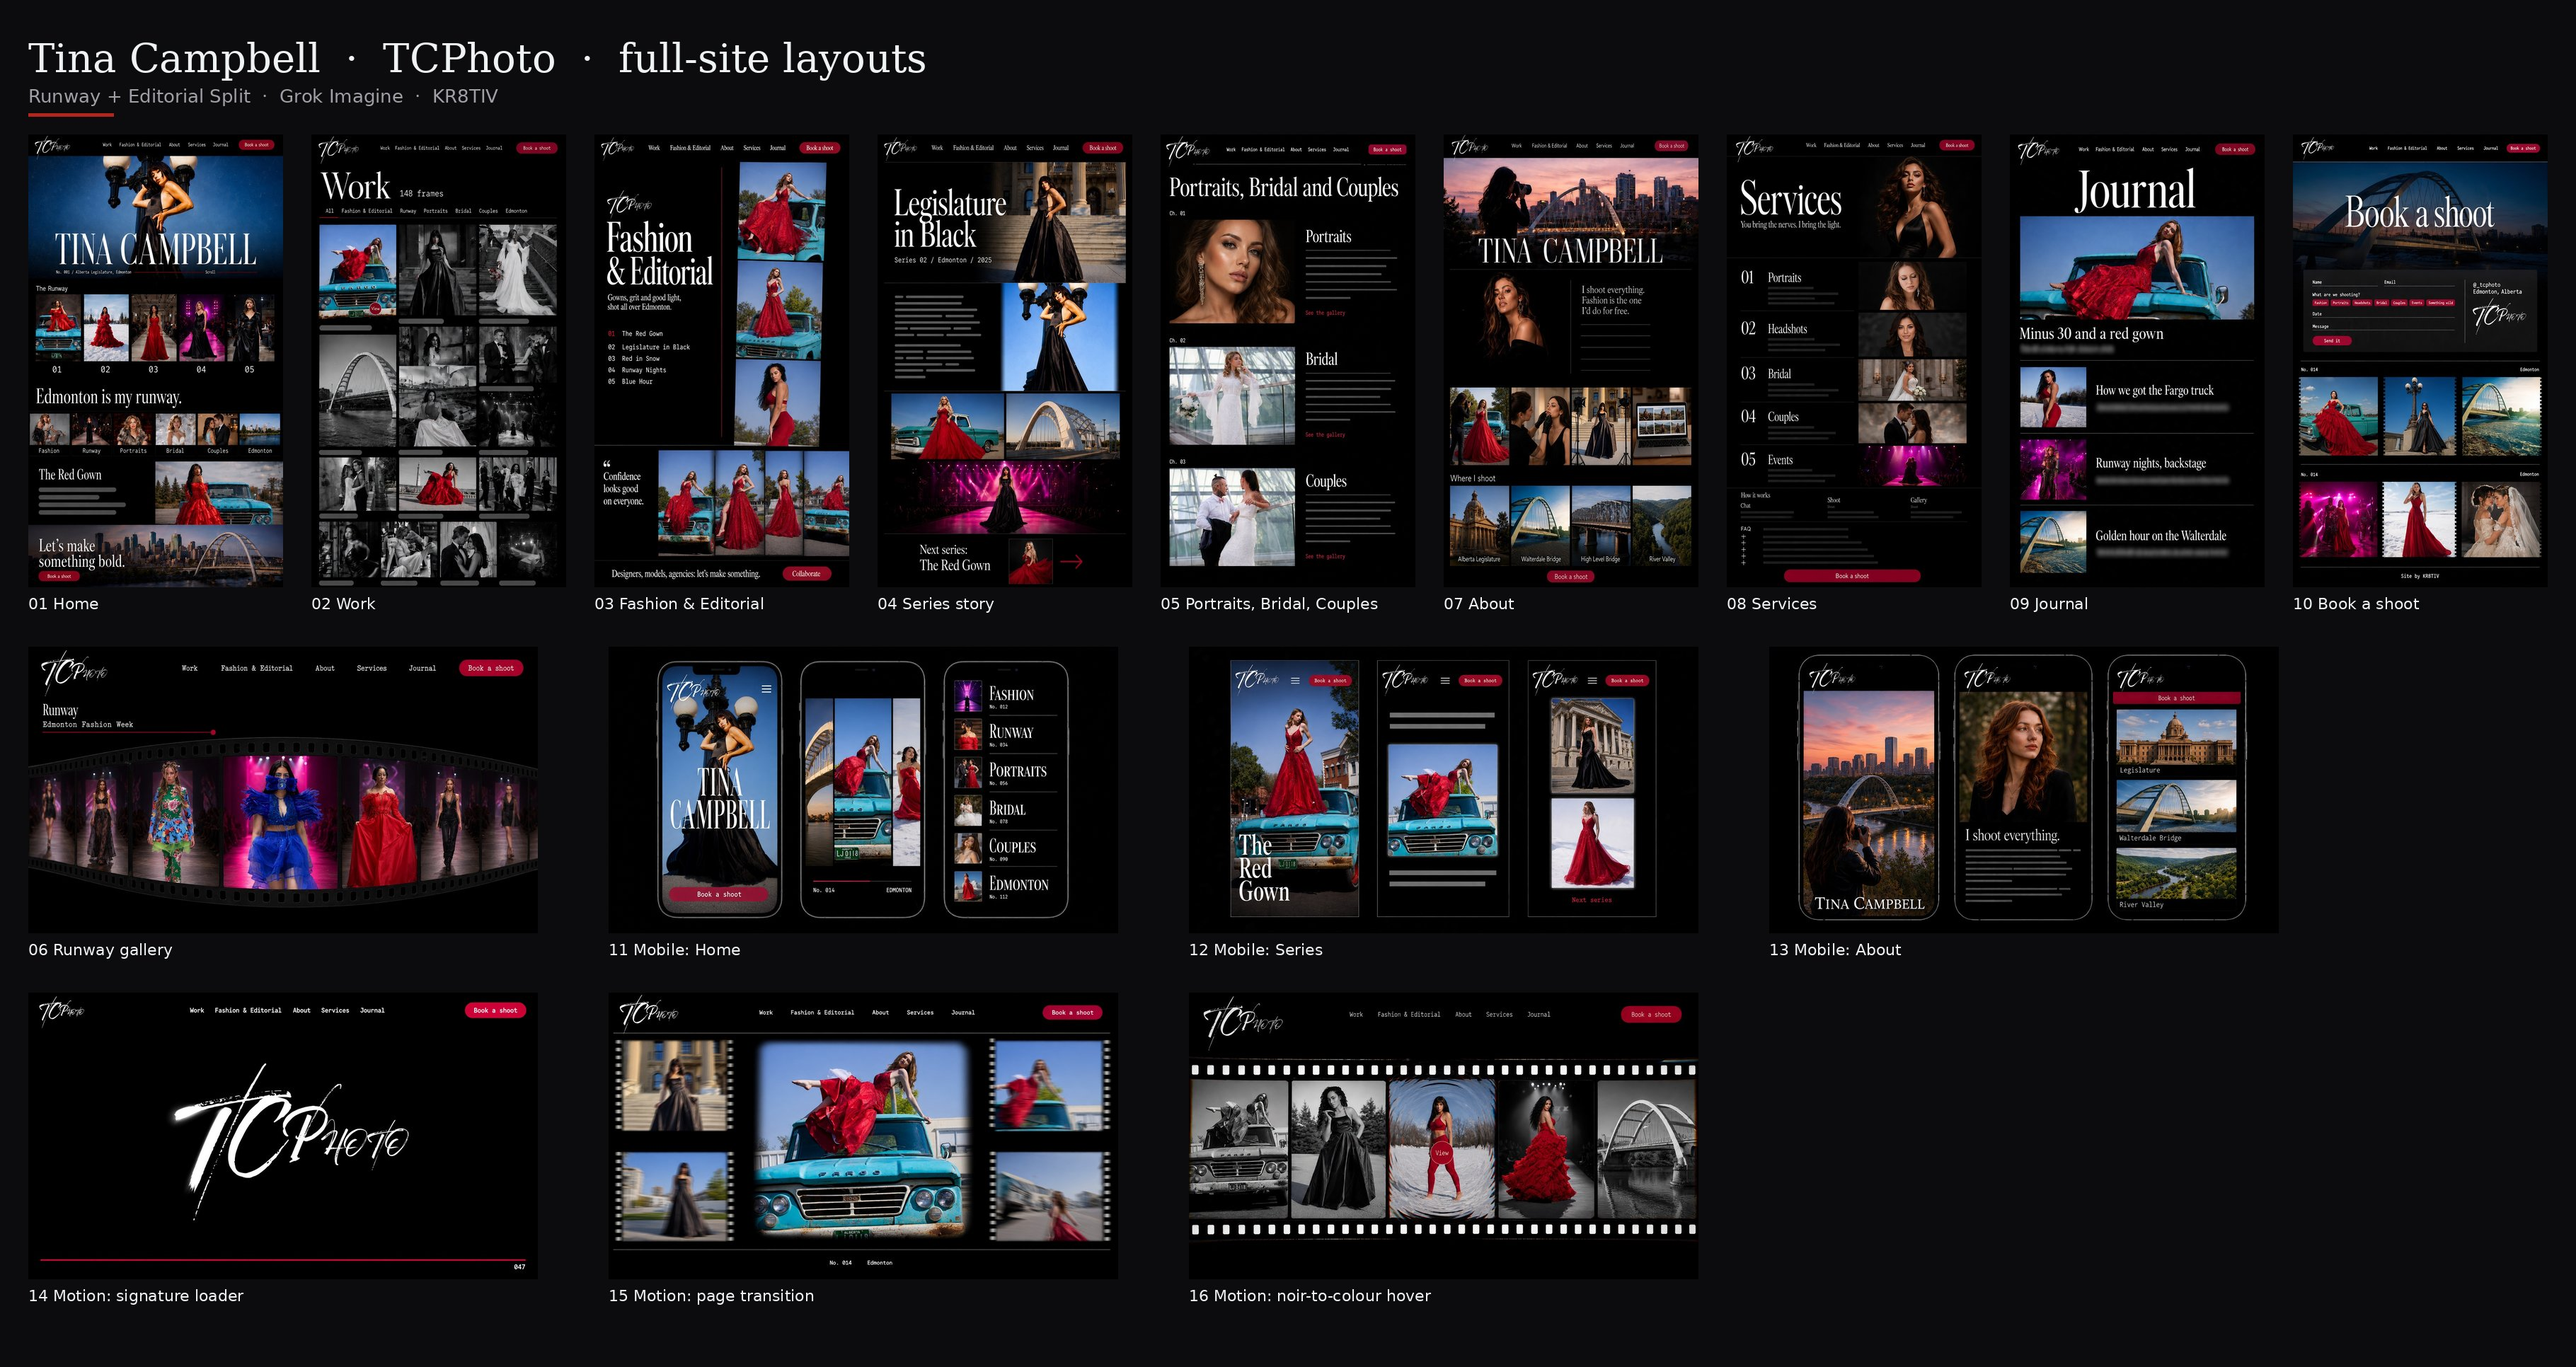
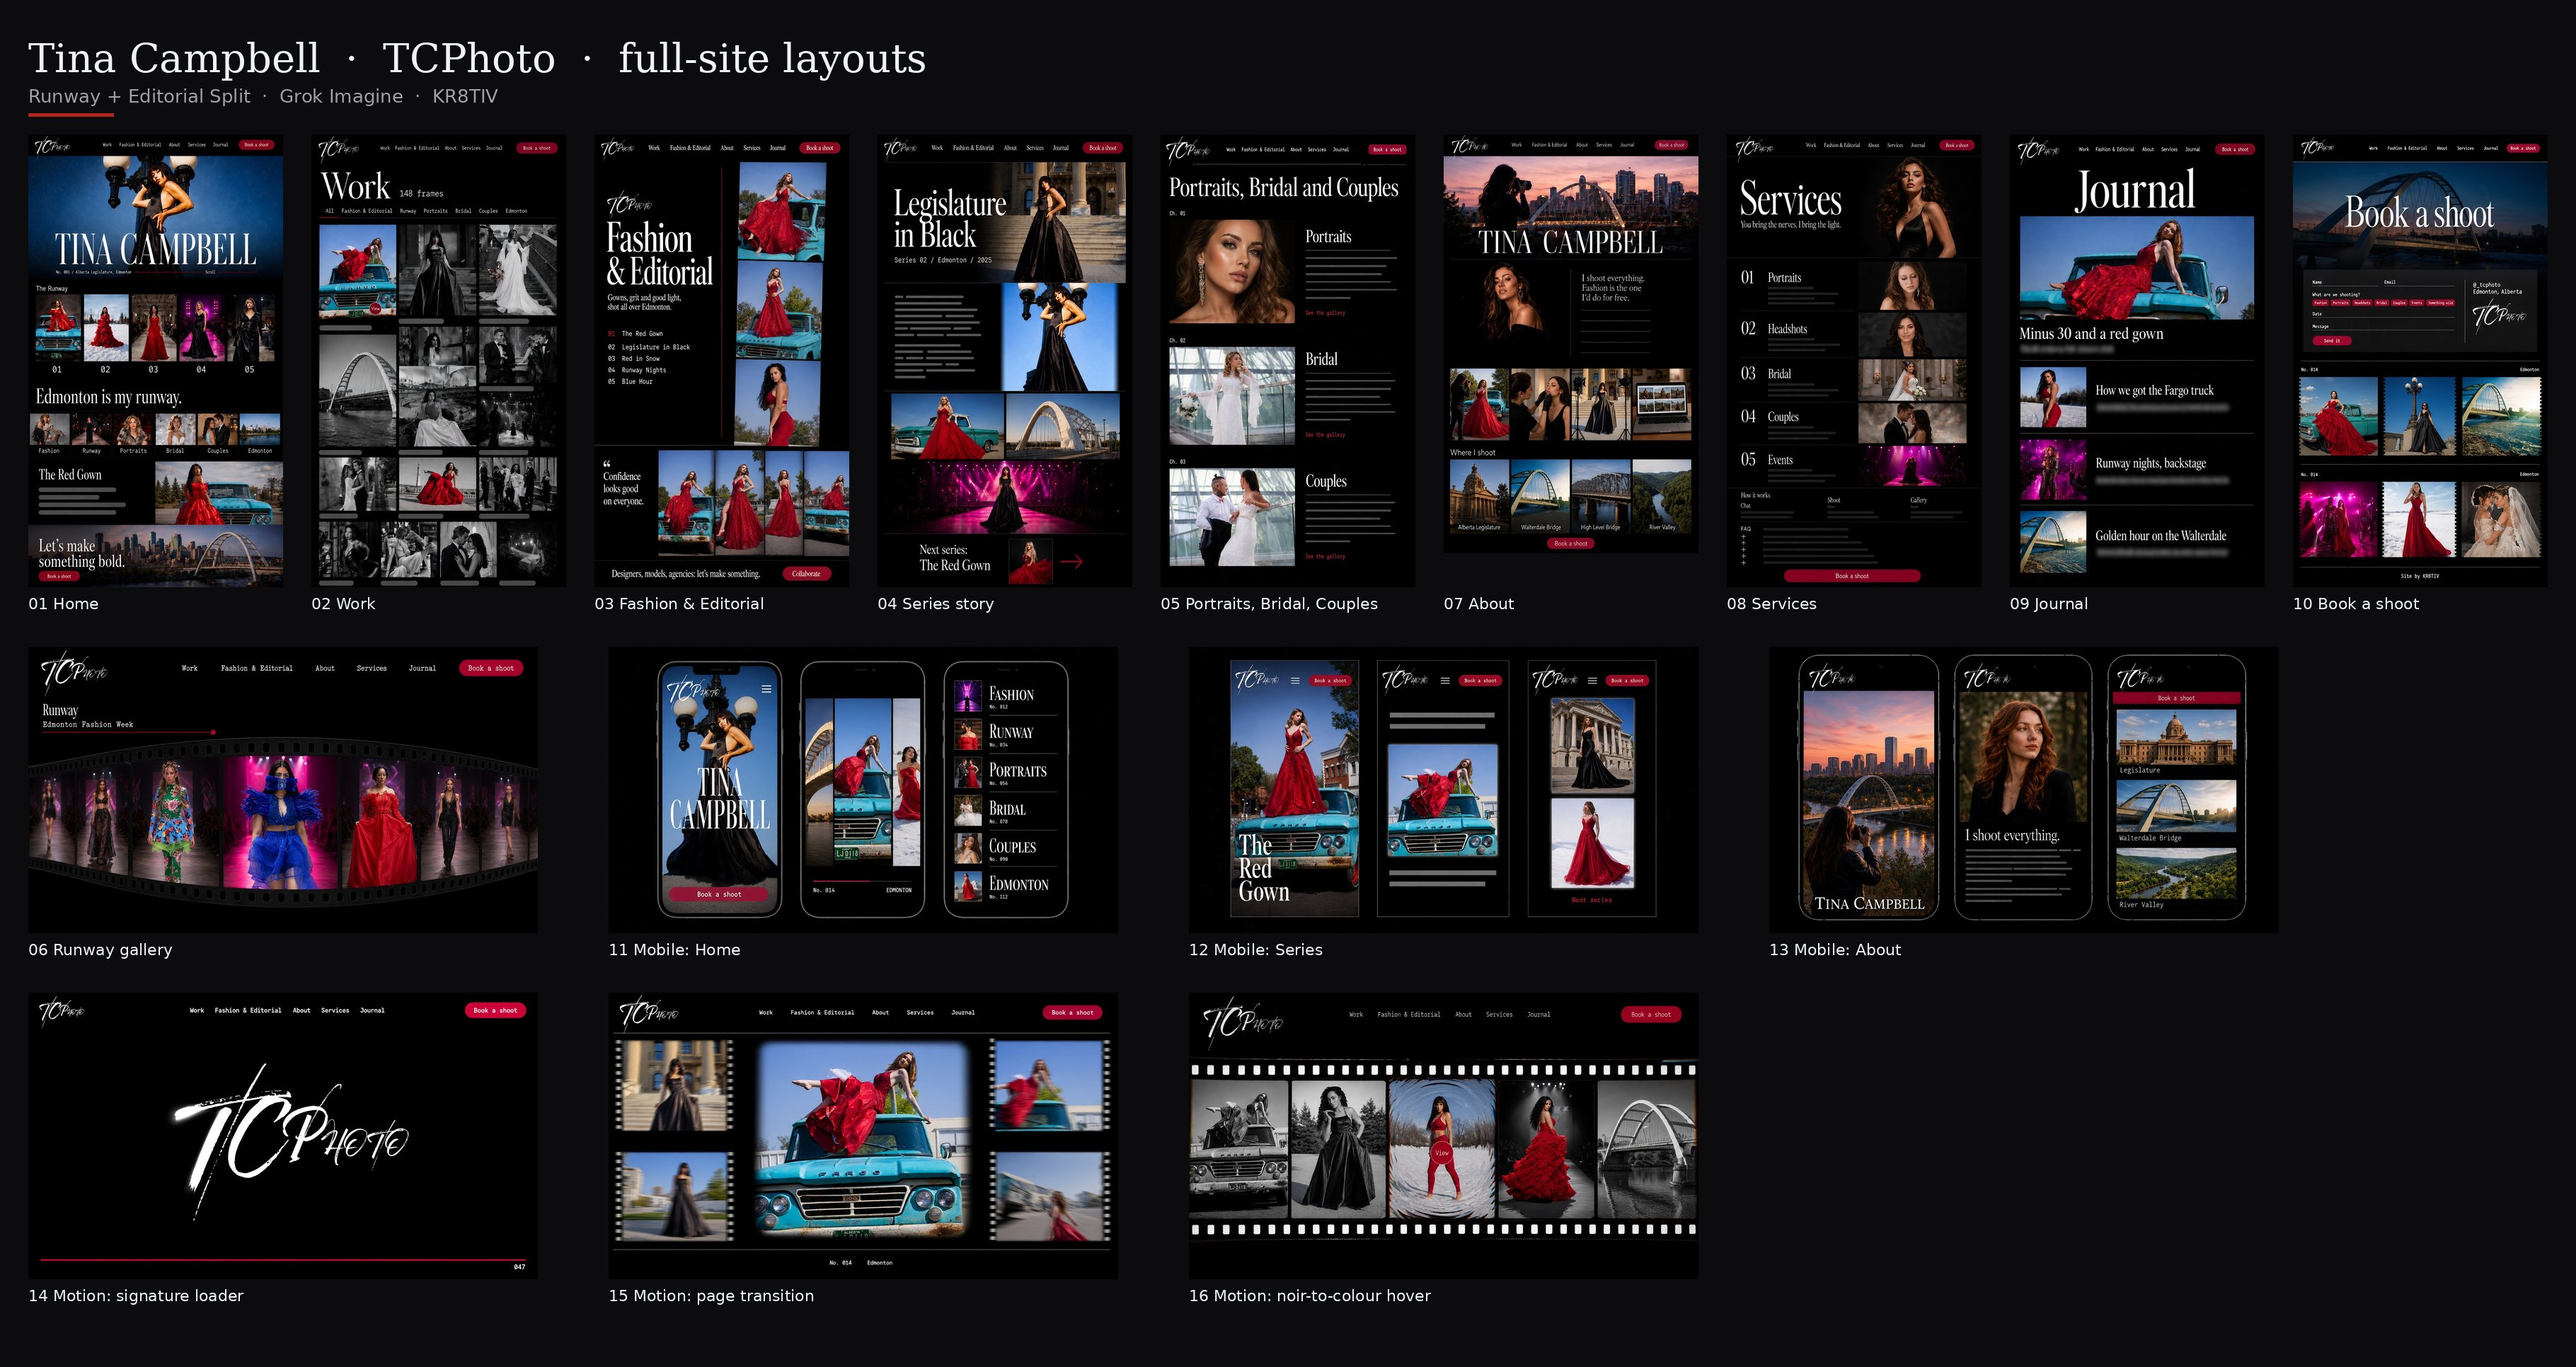
Contact sheet keeps aspect ratios

Changed region(s): [[0.5588, 0.0932, 0.683, 0.4348]]

diff --git a/concepts/site-layouts/tools/make_sheet.py b/concepts/site-layouts/tools/make_sheet.py
@@ -32,7 +32,7 @@ used = []
 y = 190
 for i, (p, l) in enumerate(PICKS):
     f = best(p); used.append(f)
-    im = Image.open(f).convert('RGB').resize((tw, th), Image.LANCZOS)
+    im = Image.open(f).convert('RGB'); im.thumbnail((tw, th), Image.LANCZOS)
     x = pad + i * (tw + pad); sheet.paste(im, (x, y)); d.text((x, y + th + 10), l, font=font(22), fill=WHITE)
 y += th + lab + pad
 for i, (p, l) in enumerate(WIDE):
